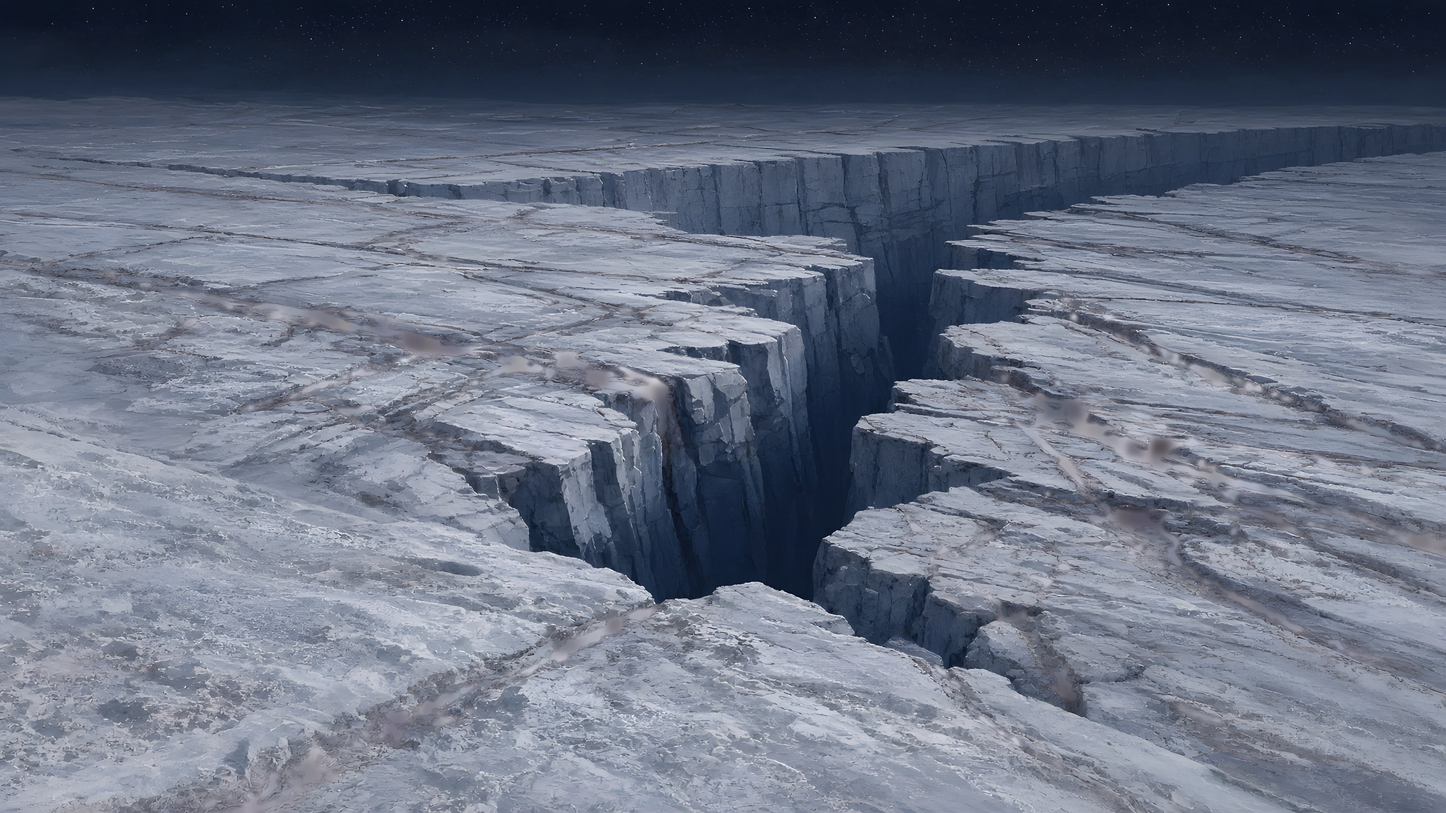
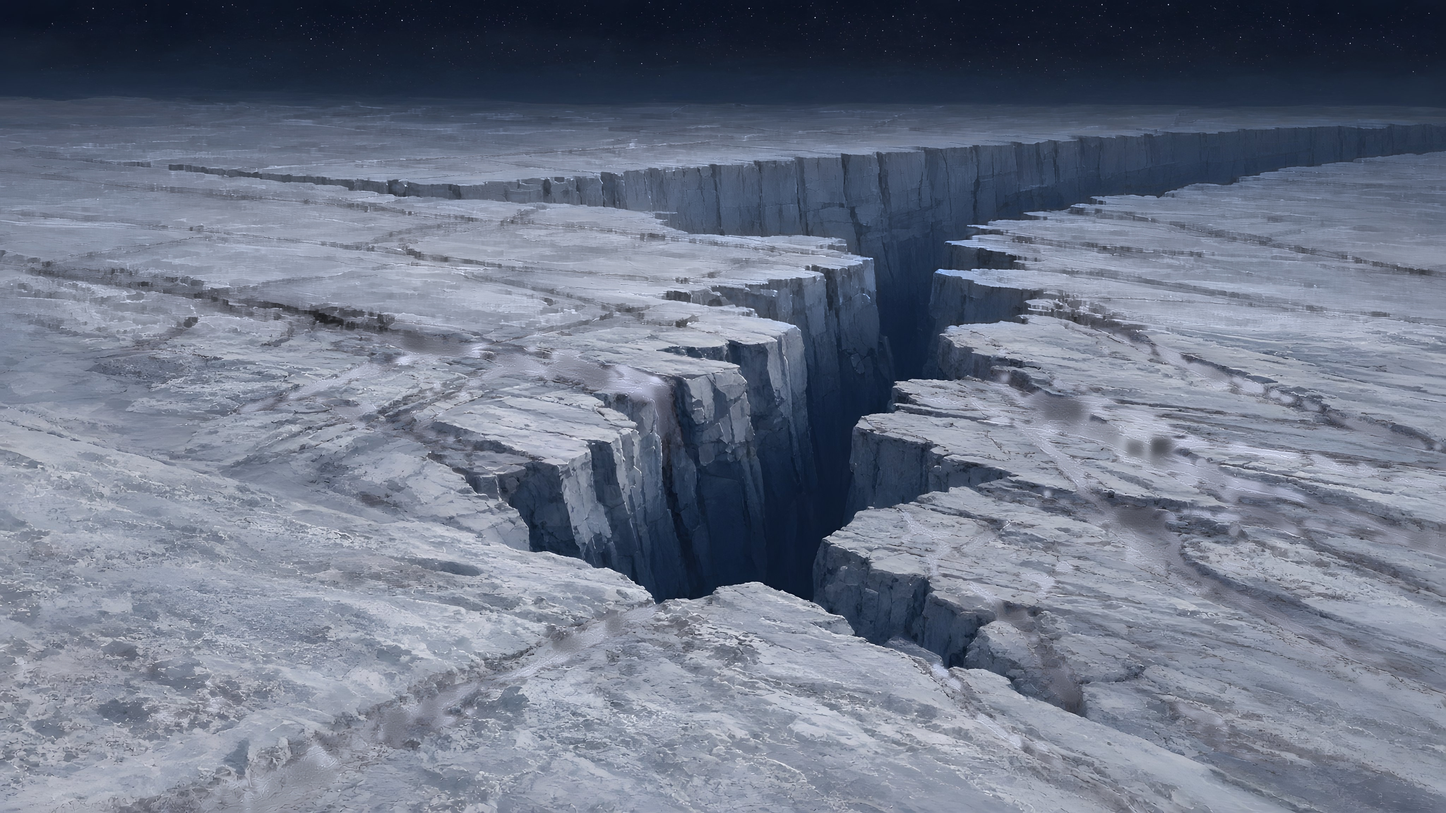
Fissure v6: brown streaks and far-plain crevice line softened (Build Nov 1 r10c, test)

diff --git a/surface/src/main.js b/surface/src/main.js
@@ -425,14 +425,14 @@ scene.add(ground);
 // Shared: ground, sky, lights. Per-location: features + high-res textures.
 /* version labels: shown on the desktop HUD and in the headset (look down for the scene menu).
  * Bump BUILD and the scene's entry whenever a scene's pictures or wiring change. */
-const BUILD = 'Build Nov 1 r10b';
+const BUILD = 'Build Nov 1 r10c';
 { const b = document.querySelector('#hud .build'); if (b) b.textContent = BUILD; }
 const SCENE_VER = {
   'open-ice': 'v9 soft rear blend',
   crevasse: 'v3 clean horizon',
   ridge: 'v8 static haze, one texture',
   chaos: 'v3 Imagine, soft seams',
-  fissure: 'v5 cracks muted, soft corners',
+  fissure: 'v6 cracks and crevice softened',
   cavern: 'v1 jellies'
 };
 const locationGroups = new Map();
@@ -778,7 +778,7 @@ registerLocation({
     // with a faint glow far below (the cavern's upwelling escaping through a pressure fissure).
     const side = { arcDeg: 116, order: 11, horizon: 0.125, keySky: true, keyLo: 0.012, keyHi: 0.022, keyBand: [0.84, 0.86] };
     addVista(group, this, { vistas: [
-      { url: './assets/fissure-vantage-vista.jpg?v=10', yawDeg: 0, arcDeg: 116, horizon: 0.125, order: 12, sideFade: 0.30, keySky: true, keyLo: 0.030, keyHi: 0.050, keyBand: [0.85, 0.89] },
+      { url: './assets/fissure-vantage-vista.jpg?v=11', yawDeg: 0, arcDeg: 116, horizon: 0.125, order: 12, sideFade: 0.30, keySky: true, keyLo: 0.030, keyHi: 0.050, keyBand: [0.85, 0.89] },
       { ...side, url: './assets/vistas/fissure-left.jpg?v=10',  yawDeg: -75, sideFade: [0.30, 0.38], bright: 1.4 },
       { ...side, url: './assets/vistas/fissure-right.jpg?v=10', yawDeg: 75,  sideFade: [0.38, 0.30], bright: 0.95 },
       { ...side, url: './assets/vistas/fissure-back.jpg',  yawDeg: 180, arcDeg: 140, order: 10, sideFade: 0.25, edgeGain: [2.3, 4.0, 0.45], horizon: 0.252, keyBand: [0.738, 0.768] }   // Scott's Imagine render (3072 wide), horizon row measured
